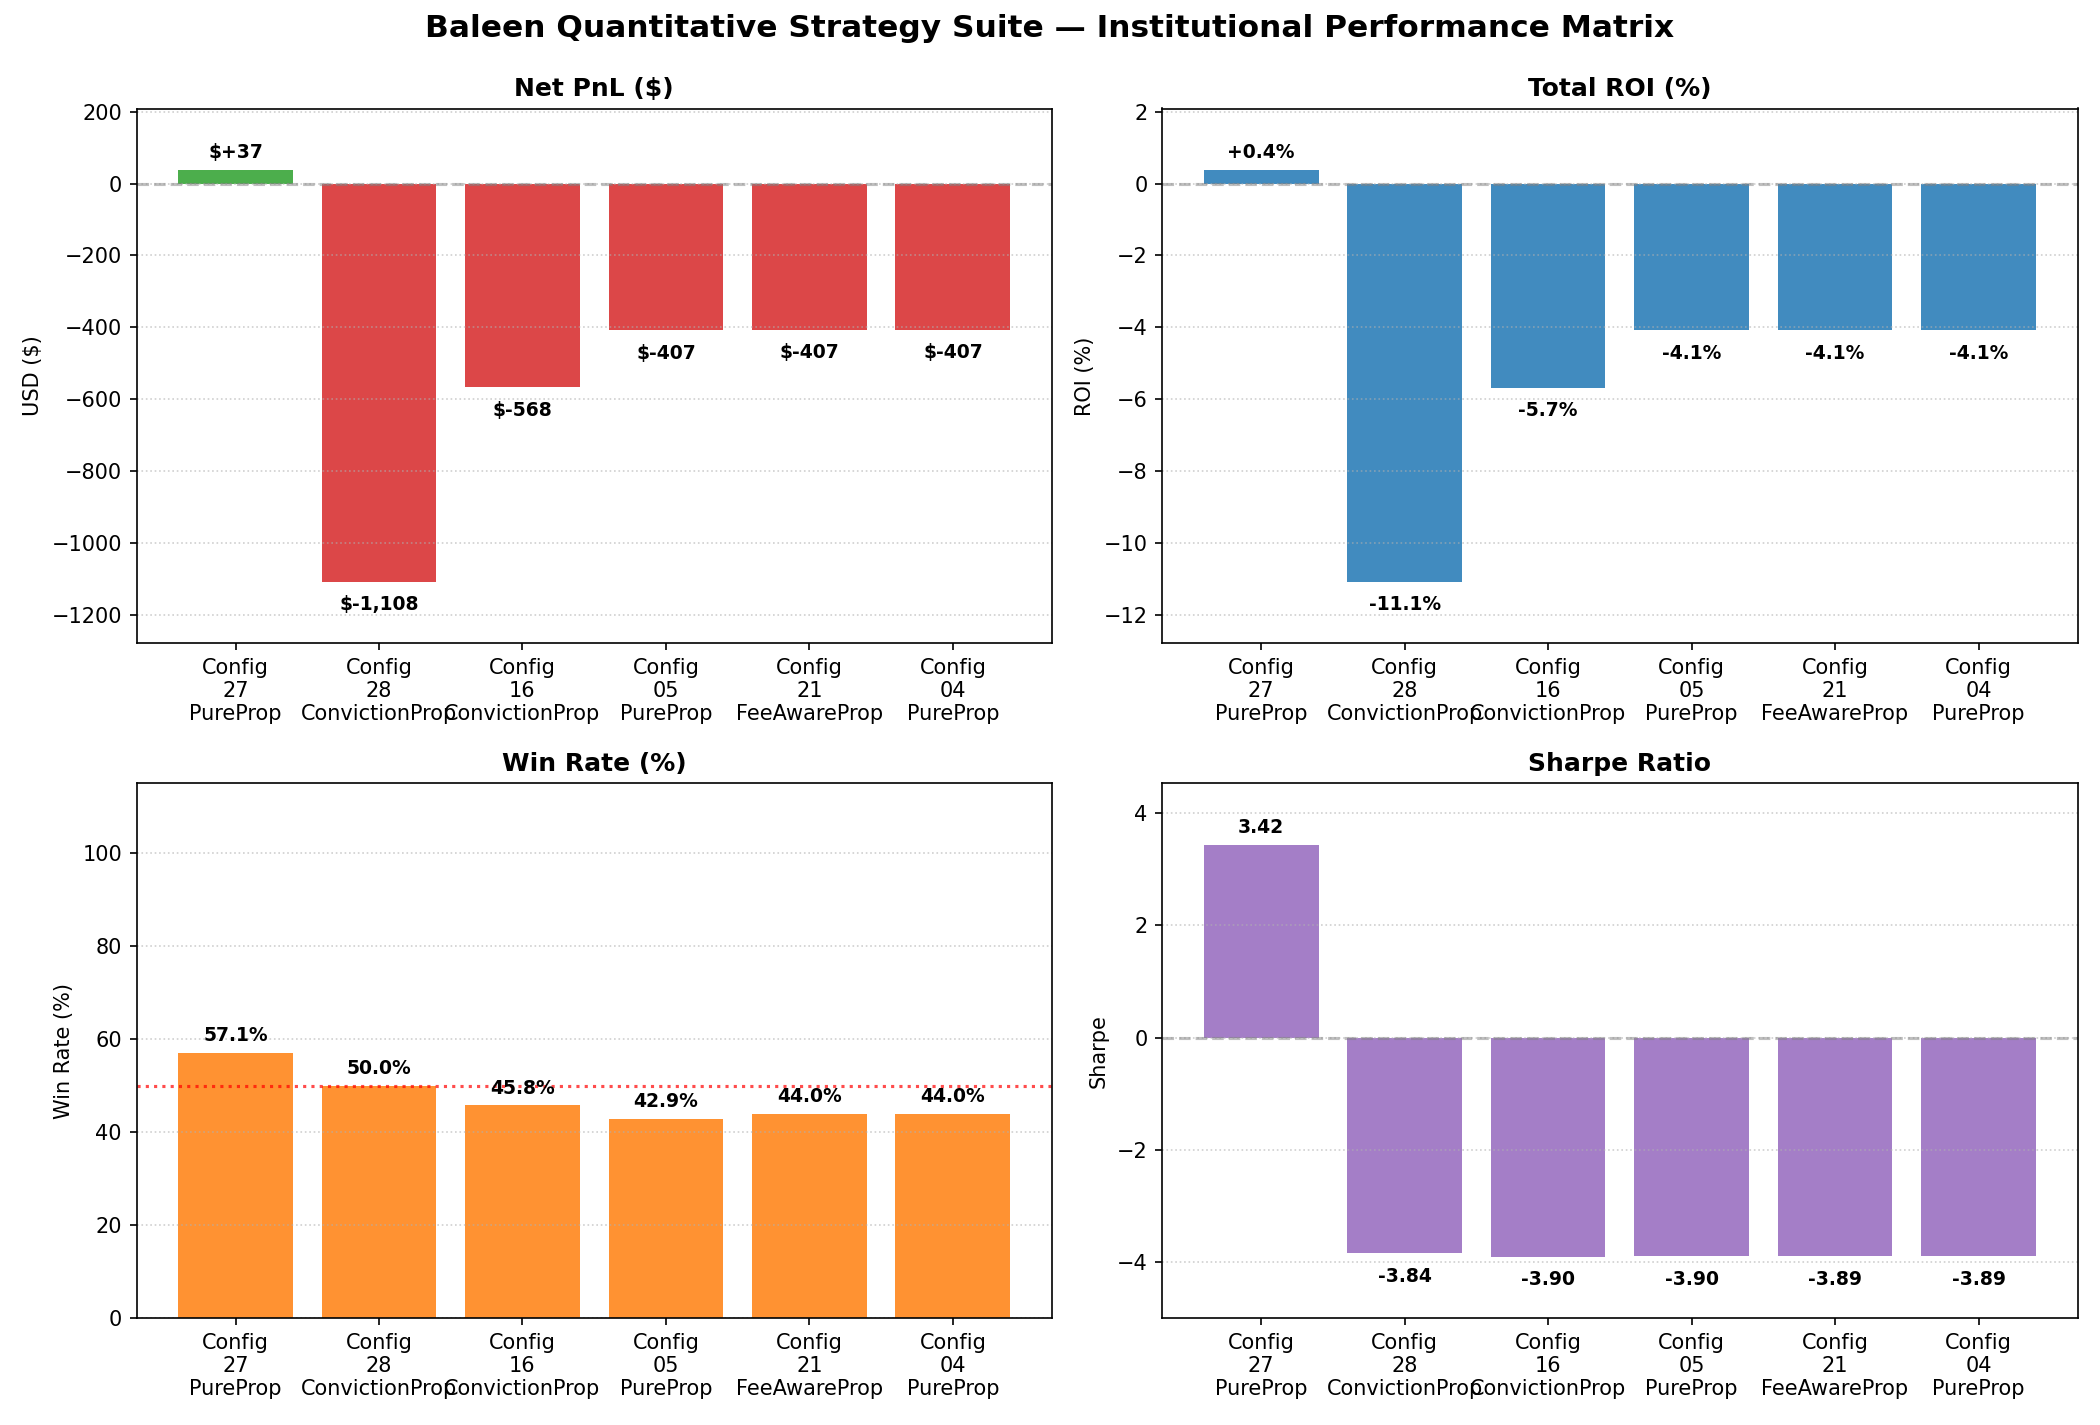
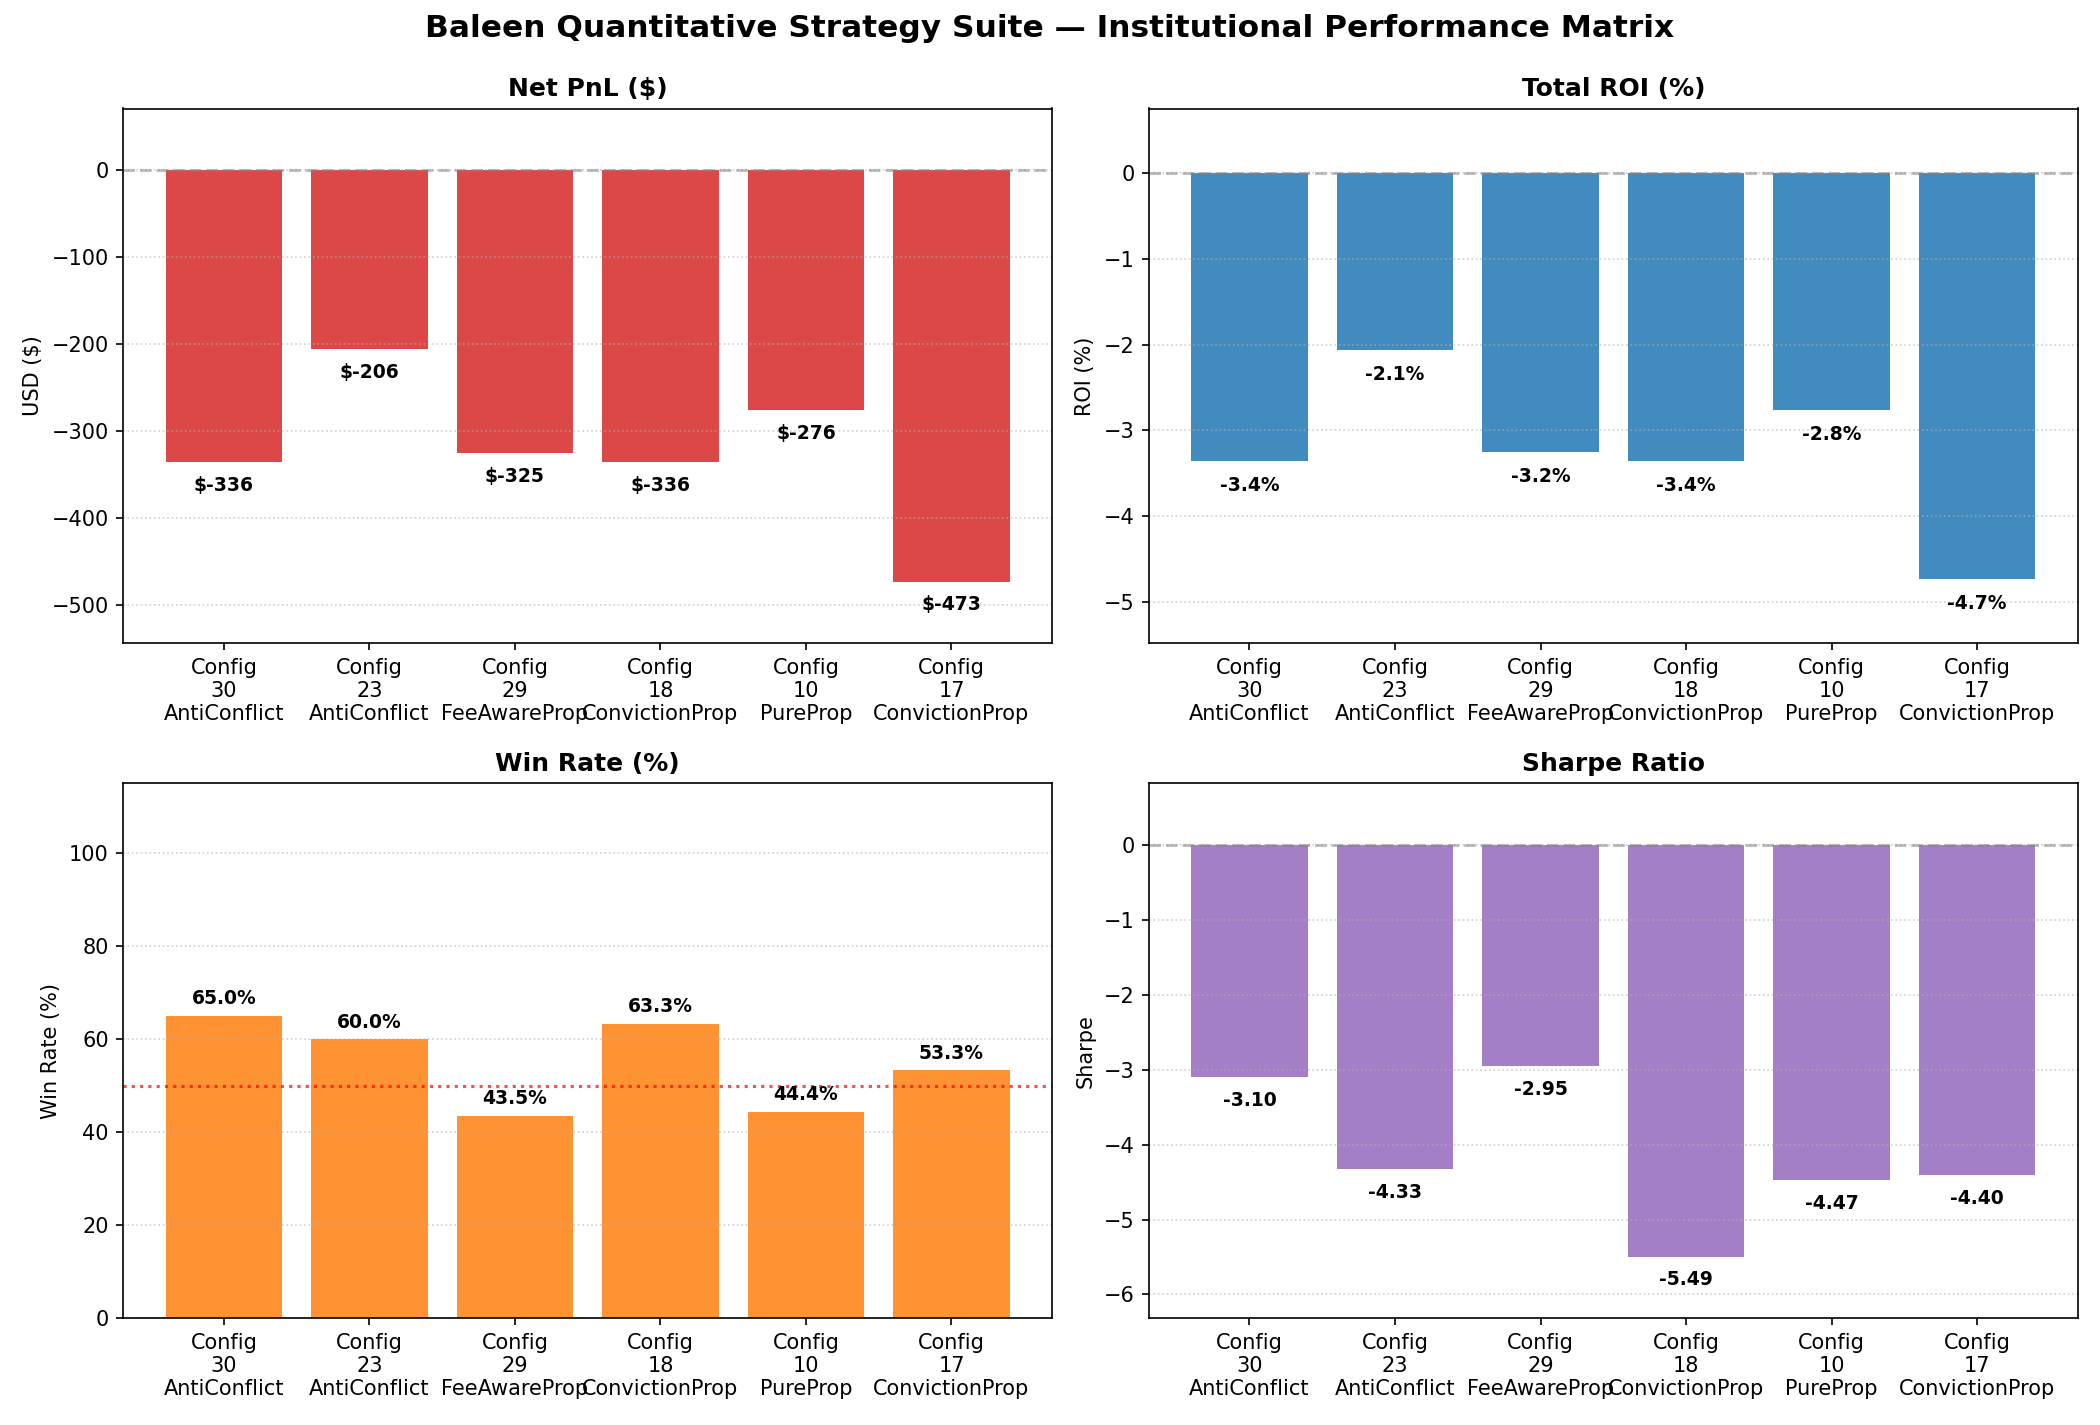
fix(backtesting): filter HFT bots <= 20 trades/day, stream continuous full-window trades, and regenerate 30-sweep charts

diff --git a/backend/app/backtesting/data_loader.py b/backend/app/backtesting/data_loader.py
@@ -119,7 +119,7 @@ class PolymarketDataLoader:
              (matching Polymarket Leaderboard Profile API).
           3. Trade stats (win rate, trade frequency, consistency, drawdown, conflicting positions):
              uses trailing up to 4,000 trades prior to start_ts (matching Polymarket Data API pagination limit of 4,000).
-          4. Disqualifies high-frequency market maker bots (>65 trades/day).
+          4. Disqualifies high-frequency market maker bots (>20 trades/day).
           5. Checks conflicting positions (disqualifies wallets trading opposing tokens on the same market).
           6. Computes empirical Sharpe ratio and consistency metrics.
         """
@@ -248,8 +248,8 @@ class PolymarketDataLoader:
                         t_count = int(row["trades_4k"])
                         freq = round(t_count / span_days, 1)
 
-                        # Disqualify high-frequency maker bots
-                        if freq > 65.0:
+                        # Disqualify high-frequency market-maker bots (>20 trades/day)
+                        if freq > 20.0:
                             continue
 
                         # Anti-conflict check
@@ -297,7 +297,7 @@ class PolymarketDataLoader:
         results = []
         for pnl_thresh, wr_thresh in tiers:
             for w in pool:
-                if w.address not in seen and w.realized_pnl >= pnl_thresh and w.win_rate_pct >= wr_thresh:
+                if w.address not in seen and w.realized_pnl >= pnl_thresh and w.win_rate_pct >= wr_thresh and w.trades_per_day <= 20.0:
                     if tier_filter and w.tier != tier_filter:
                         continue
                     seen.add(w.address)
@@ -374,7 +374,8 @@ class PolymarketDataLoader:
             clean_addrs = [f"'{w.lower()}'" for w in whale_addresses]
             whale_filter = f"AND lower(t.maker) IN ({', '.join(clean_addrs)})"
 
-        limit_clause = f"LIMIT {limit_trades}" if limit_trades else ""
+        # For qualified directional whales, stream all their trades across the entire time window without premature truncation
+        limit_clause = f"LIMIT {limit_trades}" if (limit_trades and not whale_addresses) else ""
 
         query = f"""
         SELECT t.timestamp, t.maker, t.market_id, t.condition_id, t.asset_id,

diff --git a/backend/app/backtesting/optimizer.py b/backend/app/backtesting/optimizer.py
@@ -312,7 +312,12 @@ class StrategyOptimizer:
                         whale_addresses=whale_addresses,
                         limit_trades=limit_trades
                     )
-                    score = (res.sharpe_ratio * res.profit_factor) / max(1.0, res.max_drawdown_pct)
+                    dd = max(1.0, res.max_drawdown_pct)
+                    pf = max(0.0, res.profit_factor)
+                    if res.total_net_pnl >= 0:
+                        score = (res.sharpe_ratio * max(1.0, pf)) / dd
+                    else:
+                        score = (res.roi_pct / dd) * (1.0 / (1.0 + pf))
                     sweep_records.append({
                         "latency_ms": lat,
                         "adverse_bias_bps": bias,
@@ -327,7 +332,7 @@ class StrategyOptimizer:
                         "composite_score": round(score, 3)
                     })
 
-        sweep_records.sort(key=lambda x: x["composite_score"], reverse=True)
+        sweep_records.sort(key=lambda x: (x["composite_score"], x["net_pnl"], x["win_rate_pct"]), reverse=True)
         return sweep_records
 
     def sweep_30_configurations(
@@ -439,7 +444,12 @@ class StrategyOptimizer:
             )
             results_map[c["id"]] = res
 
-            score = (res.sharpe_ratio * res.profit_factor) / max(1.0, res.max_drawdown_pct)
+            dd = max(1.0, res.max_drawdown_pct)
+            pf = max(0.0, res.profit_factor)
+            if res.total_net_pnl >= 0:
+                score = (res.sharpe_ratio * max(1.0, pf)) / dd
+            else:
+                score = (res.roi_pct / dd) * (1.0 / (1.0 + pf))
             records.append({
                 "config_id": c["id"],
                 "description": c["desc"],
@@ -462,8 +472,8 @@ class StrategyOptimizer:
                 "composite_score": round(score, 3)
             })
 
-        # Rank all 30 configurations by composite score and net PnL
-        records.sort(key=lambda r: (r["composite_score"], r["net_pnl"]), reverse=True)
+        # Rank all 30 configurations by composite score, net PnL, and win rate
+        records.sort(key=lambda r: (r["composite_score"], r["net_pnl"], r["win_rate_pct"]), reverse=True)
         for rank, r in enumerate(records, 1):
             r["rank"] = rank
 

diff --git a/backend/app/backtesting/runner.py b/backend/app/backtesting/runner.py
@@ -36,7 +36,7 @@ def main():
                         help="Predefined historical period (1m: 1-Month Oct 2024, 3m: 3-Month Aug-Oct 2024, 6m: 6-Month May-Oct 2024, election: Oct-Nov 2024)")
     parser.add_argument("--start-ts", type=int, default=None, help="Custom start unix timestamp (seconds)")
     parser.add_argument("--end-ts", type=int, default=None, help="Custom end unix timestamp (seconds)")
-    parser.add_argument("--limit-trades", type=int, default=10000, help="Max trades to process per strategy")
+    parser.add_argument("--limit-trades", type=int, default=None, help="Max trades to process per strategy (default None for continuous full-window streaming)")
     parser.add_argument("--capital", type=float, default=10000.0, help="Initial portfolio capital ($1000, $5000, $10000)")
     parser.add_argument("--entry-usd", type=float, default=100.0, help="Fixed trade entry size in USD (default $100)")
     parser.add_argument("--lookback-days", type=int, default=60, help="Pre-qualification lookback window for zero-lookahead bias (default 60 days)")
